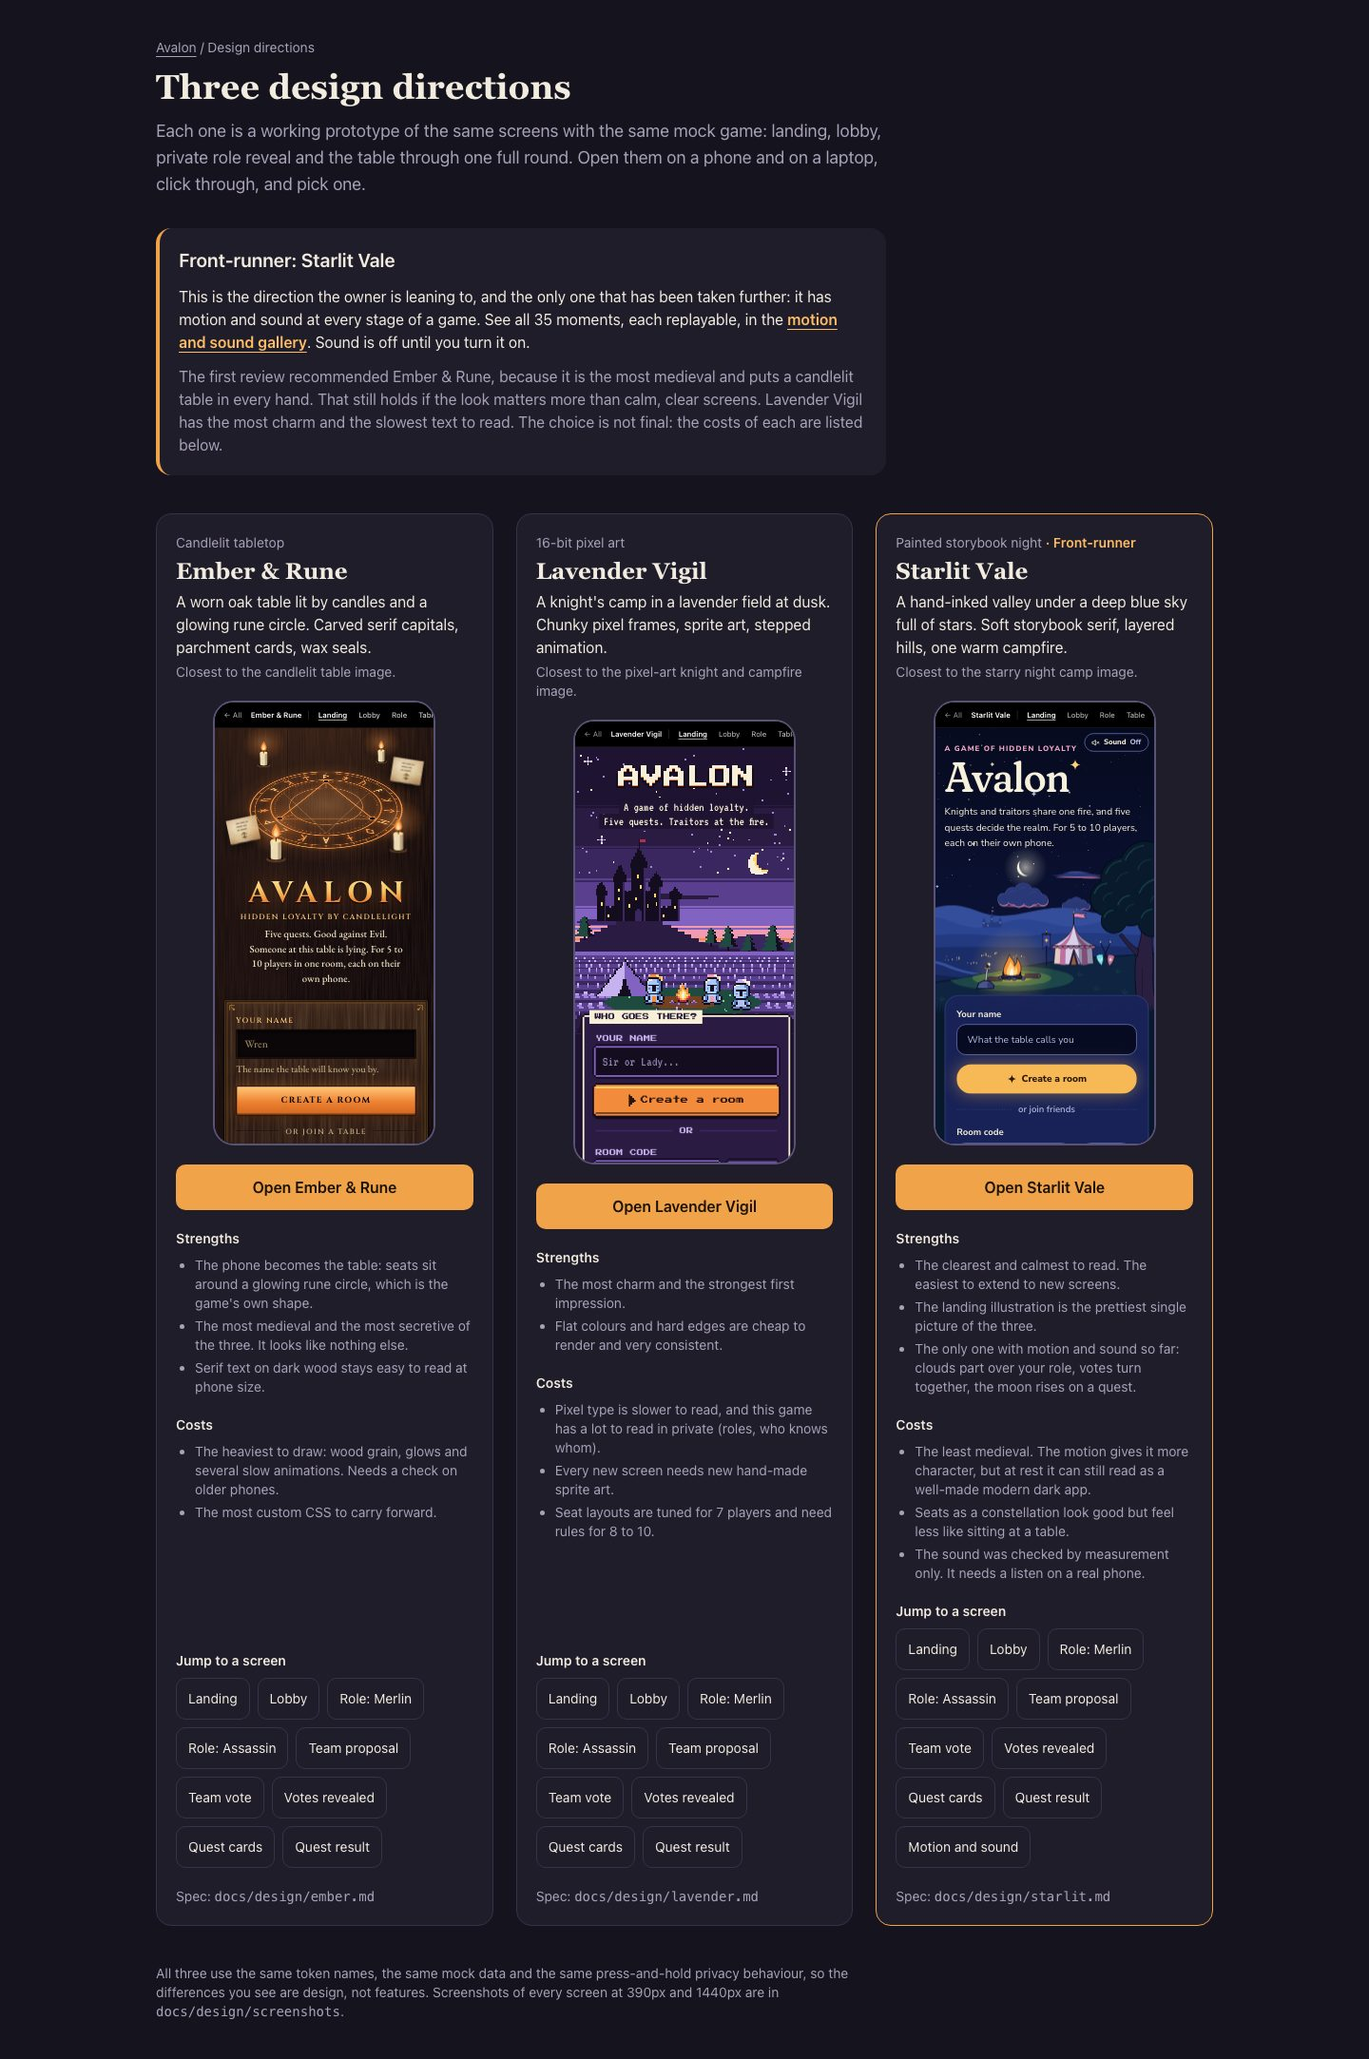
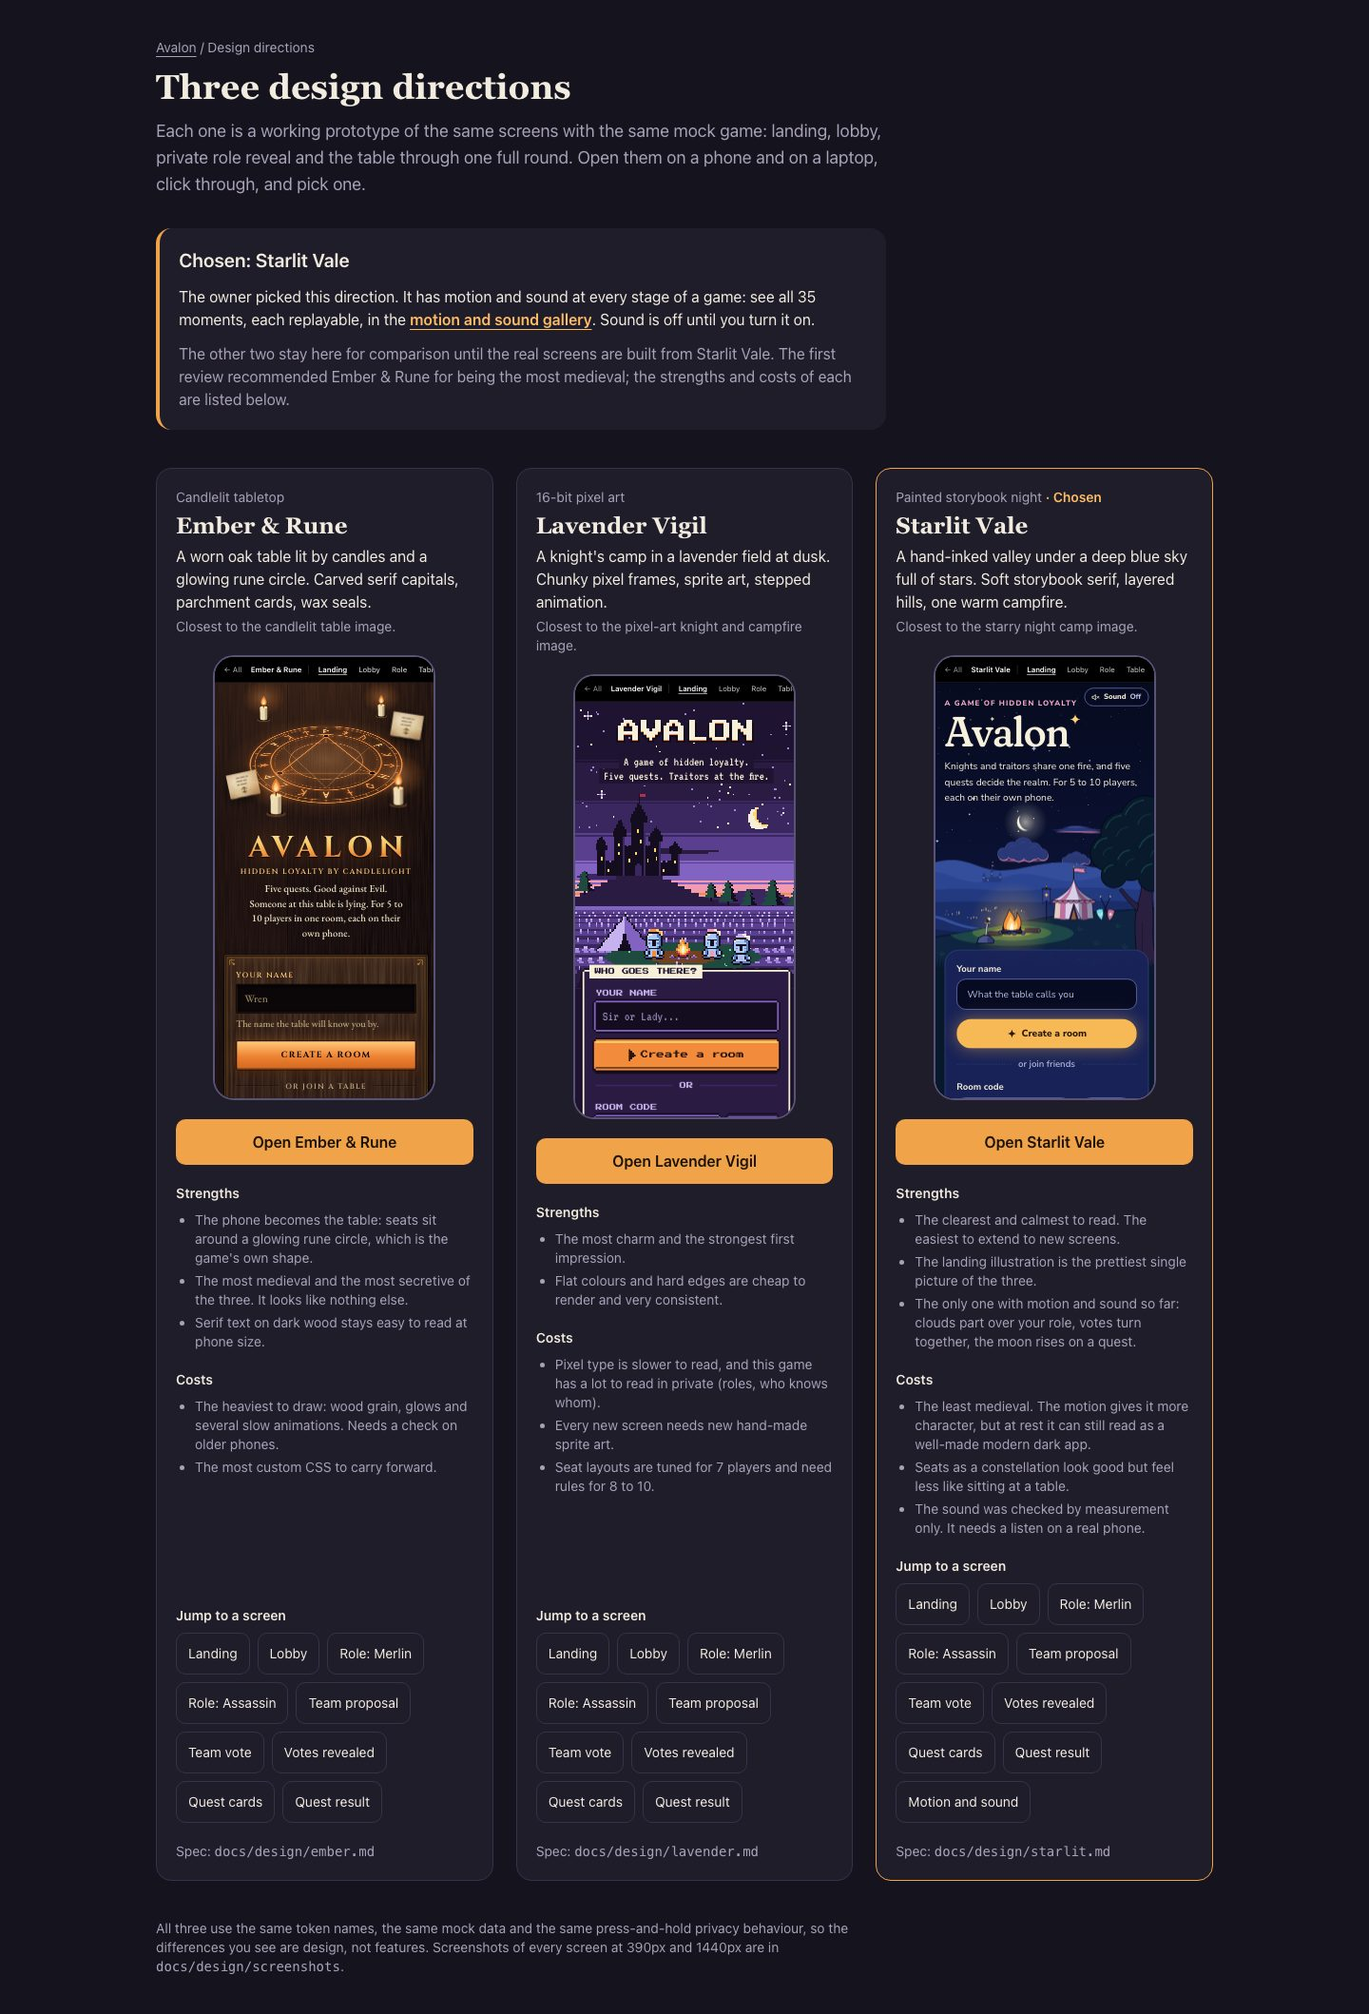
docs: record Starlit Vale as the final pick, the first deploy and measured CPU time
The owner chose Starlit Vale and approved a first deploy. The Worker is live at
avalon.hong-ladder.workers.dev. The browser tests pass against it
(E2E_BASE_URL, new in playwright.config.ts).

CPU time measured on the live Worker: plain pages and the room socket are far
inside the free plan's 10 ms, but server-rendering Starlit's art is about twice
that. The plan now says the large drawings and the room screen render in the
browser, with a measured target for Phase 0.

Claude-Session: https://claude.ai/code/session_017rvMngAqhVY353oFT8AX5Q

diff --git a/src/routes/design/index.tsx b/src/routes/design/index.tsx
@@ -14,8 +14,8 @@ export const Route = createFileRoute("/design/")({
   component: DesignIndexPage,
 });
 
-/** The direction the owner is leaning to. Not final until they say so. */
-const FRONT_RUNNER: DirectionSlug = "starlit";
+/** The direction the owner picked on 16 November 2026. */
+const CHOSEN: DirectionSlug = "starlit";
 
 /** What each direction is best and worst at, from reviewing all three. */
 const VERDICTS: Record<
@@ -111,7 +111,7 @@ function PhonePreview({ slug, name }: { slug: DirectionSlug; name: string }) {
 }
 
 function DesignIndexPage() {
-  const frontRunner = DIRECTIONS.find((d) => d.slug === FRONT_RUNNER);
+  const chosen = DIRECTIONS.find((d) => d.slug === CHOSEN);
 
   return (
     <main className="mx-auto w-full max-w-6xl flex-1 px-5 py-10">
@@ -138,12 +138,11 @@ function DesignIndexPage() {
         className="border-accent bg-surface mt-8 max-w-3xl space-y-3 rounded-lg border-l-4 p-5"
       >
         <h2 id="recommendation" className="text-xl font-semibold">
-          Front-runner: {frontRunner?.name}
+          Chosen: {chosen?.name}
         </h2>
         <p>
-          This is the direction the owner is leaning to, and the only one that
-          has been taken further: it has motion and sound at every stage of a
-          game. See all 35 moments, each replayable, in the{" "}
+          The owner picked this direction. It has motion and sound at every
+          stage of a game: see all 35 moments, each replayable, in the{" "}
           <ProtoLink
             href={STARLIT_MOTION_PATH}
             className="text-accent-strong font-semibold underline underline-offset-4"
@@ -153,18 +152,17 @@ function DesignIndexPage() {
           . Sound is off until you turn it on.
         </p>
         <p className="text-ink-muted">
-          The first review recommended Ember &amp; Rune, because it is the most
-          medieval and puts a candlelit table in every hand. That still holds if
-          the look matters more than calm, clear screens. Lavender Vigil has the
-          most charm and the slowest text to read. The choice is not final: the
-          costs of each are listed below.
+          The other two stay here for comparison until the real screens are
+          built from Starlit Vale. The first review recommended Ember &amp; Rune
+          for being the most medieval; the strengths and costs of each are
+          listed below.
         </p>
       </section>
 
       <ul className="mt-10 grid gap-6 lg:grid-cols-3">
         {DIRECTIONS.map((direction) => {
           const verdict = VERDICTS[direction.slug];
-          const isPick = direction.slug === FRONT_RUNNER;
+          const isPick = direction.slug === CHOSEN;
           return (
             <li
               key={direction.slug}
@@ -178,7 +176,7 @@ function DesignIndexPage() {
                   {isPick && (
                     <span className="text-accent-strong font-semibold">
                       {" "}
-                      · Front-runner
+                      · Chosen
                     </span>
                   )}
                 </p>

diff --git a/playwright.config.ts b/playwright.config.ts
@@ -1,7 +1,9 @@
 import { defineConfig } from "@playwright/test";
 
 const port = Number.parseInt(process.env.PORT ?? "3100", 10);
-const baseURL = `http://localhost:${port}`;
+/** Set E2E_BASE_URL to run against a deployed site instead of a local build. */
+const remoteURL = process.env.E2E_BASE_URL;
+const baseURL = remoteURL ?? `http://localhost:${port}`;
 
 /**
  * Two projects:
@@ -9,7 +11,8 @@ const baseURL = `http://localhost:${port}`;
  * - screenshots: regenerates docs/design/screenshots (run by hand).
  *
  * Both run against the production build, served by `vite preview` in
- * Cloudflare's local runtime. Run `pnpm build` first.
+ * Cloudflare's local runtime (run `pnpm build` first), or against a deployed
+ * site when E2E_BASE_URL is set.
  */
 export default defineConfig({
   testDir: "./e2e",
@@ -25,10 +28,12 @@ export default defineConfig({
       use: { reducedMotion: "reduce" },
     },
   ],
-  webServer: {
-    command: `pnpm exec vite preview --port ${port} --strictPort`,
-    url: `${baseURL}/api/health`,
-    reuseExistingServer: !process.env.CI,
-    timeout: 60_000,
-  },
+  webServer: remoteURL
+    ? undefined
+    : {
+        command: `pnpm exec vite preview --port ${port} --strictPort`,
+        url: `${baseURL}/api/health`,
+        reuseExistingServer: !process.env.CI,
+        timeout: 60_000,
+      },
 });

diff --git a/docs/architecture.md b/docs/architecture.md
@@ -165,10 +165,10 @@ What it costs:
 - **Nothing may live only in memory.** Every change is saved, each socket
   remembers its seat in its attachment, and anything that must happen later
   is an alarm. This is a discipline, kept by review and by the restart check.
-- **Free-plan CPU is 10 ms per request.** Fine for the room object. Not yet
-  measured for server-rendering the art-heavy pages. If a page exceeds it,
-  that route can be rendered in the browser instead, or the 5 USD plan
-  removes the limit.
+- **Free-plan CPU is 10 ms per request.** Fine for the room object and the
+  plain pages. Server-rendering the art-heavy Starlit screens measured about
+  twice that on the live Worker, so the game screens must render in the
+  browser. See the measurements under [Deployment](#deployment).
 
 Cloudflare Containers (generally available, paid plan only) could have run
 the Option A server unchanged, but containers sleep, lose their disk and are
@@ -696,16 +696,52 @@ newer client against an older room fails politely.
 
 ## Deployment
 
-Nothing was deployed in this checkpoint. Deploying needs the owner's approval
-and a Cloudflare account.
+First deployed on 16 November 2026, with the owner's approval, to the owner's
+Cloudflare account: <https://avalon.hong-ladder.workers.dev>. Every later
+deploy still needs the owner's go-ahead.
 
-| Step            | What                                                                                                                                      |
-| --------------- | ----------------------------------------------------------------------------------------------------------------------------------------- |
-| Account         | A Cloudflare account. The free plan is enough to start.                                                                                   |
-| Deploy          | `pnpm run deploy` (builds, then `wrangler deploy`). The first deploy creates the Worker and the `RoomObject` class from `wrangler.jsonc`. |
-| Address         | `avalon.<account>.workers.dev` by default. A custom domain is optional.                                                                   |
-| Secrets         | None. There are no environment variables.                                                                                                 |
-| After deploying | Play one game on two phones. Check the Worker's CPU time for the landing and prototype pages against the free plan's 10 ms.               |
+| Step    | What                                                                                                                                      |
+| ------- | ----------------------------------------------------------------------------------------------------------------------------------------- |
+| Account | The owner's Cloudflare account, signed in with `wrangler login`.                                                                          |
+| Deploy  | `pnpm run deploy` (builds, then `wrangler deploy`). The first deploy created the Worker and the `RoomObject` class from `wrangler.jsonc`. |
+| Address | `avalon.hong-ladder.workers.dev`. A custom domain is optional.                                                                            |
+| Secrets | None. There are no environment variables.                                                                                                 |
+| Check   | `E2E_BASE_URL=https://avalon.hong-ladder.workers.dev pnpm test:e2e` runs the browser tests against the live site.                         |
+
+### Measured CPU time on the live Worker
+
+Measured on 16 November 2026 with `wrangler tail avalon --format json` while
+requesting each address 30 times (the tail samples, so counts are a little
+under 30). The free plan allows 10 ms of CPU per request. Cloudflare's limits
+page says there is some flexibility for a Worker that runs over infrequently,
+and that one that runs over consistently is stopped with error 1102.
+
+| Request                              | Median | 90th percentile | Slowest | Over 10 ms |
+| ------------------------------------ | ------ | --------------- | ------- | ---------- |
+| `/` (plain landing)                  | 3 ms   | 6 ms            | 13 ms   | 1 of 26    |
+| `/room/<code>` (plain room screen)   | 3 ms   | 5 ms            | 6 ms    | 0 of 23    |
+| `/design/starlit` (landing with art) | 21 ms  | 37 ms           | 40 ms   | 25 of 27   |
+| `/design/starlit/table/result`       | 23 ms  | 42 ms           | 43 ms   | 25 of 25   |
+| Room socket messages and room object | 0 ms   | 2 ms            | 2 ms    | none       |
+
+Every request still returned 200, and none was reported as `exceededCpu`. That
+is the flexibility, not a guarantee.
+
+What this means: the real-time side and the plain pages are far inside the free
+plan. Server-rendering Starlit Vale's art is consistently over it. Starlit Vale
+is the chosen direction, so this is settled as follows, and Phase 0 carries it
+out:
+
+- The Worker sends a light page: the layout, the text and the form. The night
+  sky, the camp scene, the seat ring and the other large drawings are rendered
+  in the browser only (a client-only wrapper around those components, with a
+  plain background colour until they appear).
+- `/room/$code` gains nothing from server rendering, because everything on it
+  comes from the socket. It is rendered in the browser.
+- Phase 0 is not done until the 90th percentile for `/` and `/room/<code>` on
+  the live Worker is under 10 ms, measured the same way.
+- If that cannot be reached, the fallback is the Workers Paid plan (5 USD a
+  month), which needs the owner's approval.
 
 Changing the Durable Object class (renaming or deleting it) needs a new entry
 under `migrations` in `wrangler.jsonc`. Changing `RoomState` in a way old
@@ -775,8 +811,13 @@ saved; nothing is kept only in a field; anything timed is an alarm.
   and `e2e/design.shots.ts`. Keep the winner's spec as `docs/design-system.md`
   and rewrite `.claude/rules/design-system.md` from it.
 - Restyle `/` and the `/room/$code` placeholder with the real components.
+- Render the large drawings in the browser only, and `/room/$code` in the
+  browser only, as settled under
+  [Measured CPU time on the live Worker](#measured-cpu-time-on-the-live-worker).
 - Done when: `/` and `/room/$code` look like the chosen direction at 390px
-  and 1440px (screenshots), and the existing e2e tests still pass.
+  and 1440px (screenshots), the existing e2e tests still pass, and after a
+  deploy (ask the owner first) the 90th percentile CPU time for both is under
+  10 ms.
 
 ### Phase 1: the lobby
 
@@ -887,14 +928,15 @@ sees nothing secret.
 - Accessibility pass (keyboard, screen reader labels, reduced motion) and a
   performance check on a mid-range phone profile.
 
-### Phase 8: deploy (needs approval)
+### Phase 8: deploy the finished game (needs approval)
 
-- `pnpm run deploy` to a Cloudflare account, then the checks listed under
-  [Deployment](#deployment).
+- `pnpm run deploy`, then run the browser tests against the live site, measure
+  CPU time as under [Deployment](#deployment), and play one whole game on two
+  phones.
 
 ## Owner decisions
 
-Answered on 15 November 2026:
+Answered on 15 and 16 November 2026:
 
 | Question                                                                 | Answer                                            |
 | ------------------------------------------------------------------------ | ------------------------------------------------- |
@@ -903,8 +945,7 @@ Answered on 15 November 2026:
 | Room codes of 4 letters instead of 6 characters                          | Confirmed.                                        |
 | The room survives the host leaving; host role passes on after 60 seconds | Confirmed.                                        |
 | Shared table screen and Lady of the Lake                                 | Both required in the next run (Phases 5 and 6).   |
+| Design direction                                                         | Starlit Vale, with its motion and sound. Final.   |
+| First deploy to Cloudflare                                               | Approved and done. Later deploys: ask first.      |
 
-Still open:
-
-1. **Which design direction?** The owner is leaning towards Starlit Vale and
-   asked for motion and sound examples first. See `/design/starlit/motion`.
+Nothing is open. Phase 0 can start.

diff --git a/.claude/rules/design-system.md b/.claude/rules/design-system.md
@@ -9,14 +9,19 @@ paths:
 
 # Design System
 
-**Status: a design direction has not been picked yet.** Three candidate directions
-are built as prototypes under `/design`. Their specs are in `docs/design/`, and the
-contract they all follow is `docs/design/README.md`. When one is picked, its tokens
-move to `:root`, the other two are deleted, and this file is rewritten from the
-winner's spec (Phase 0 in `docs/architecture.md`). The old navy and gold, Inter and
-shadcn/ui system is gone; do not bring it back.
+**Status: Starlit Vale is the chosen direction** (picked by the owner on 16
+November 2026), with its motion and sound. Its spec is `docs/design/starlit.md` and
+its prototype is under `/design/starlit`. The real screens are not built from it
+yet: Phase 0 in `docs/architecture.md` moves its tokens to `:root`, deletes the
+other two directions and rewrites this file from the spec. Until then, new UI work
+follows the Starlit spec. The old navy and gold, Inter and shadcn/ui system is
+gone; do not bring it back.
 
-## What is already fixed, whichever direction wins
+Large drawings (night sky, camp scene, seat ring) render in the browser only, not
+on the Worker: server-rendering them costs about twice the free plan's CPU limit
+(measured, see Deployment in `docs/architecture.md`).
+
+## What is fixed
 
 ### Tokens
 

diff --git a/docs/design/README.md b/docs/design/README.md
@@ -16,14 +16,15 @@ Regenerate them with `pnpm build && pnpm screenshots`. Phone screenshots show
 the whole page, with the bar that is fixed to the bottom of the screen drawn at
 the bottom of the image.
 
-The current front-runner, with the strengths and costs of each direction, is on
-the `/design` page (`src/routes/design/index.tsx`).
+**Starlit Vale was chosen on 16 November 2026.** The comparison, with the
+strengths and costs of each direction, is on the `/design` page
+(`src/routes/design/index.tsx`). The other two are kept until Phase 0 in
+`docs/architecture.md` removes them.
 
-Starlit Vale is the direction the owner is leaning to, so it alone has been
-taken further: it has motion and sound at every stage of a game. All 35 moments
-are replayable at `/design/starlit/motion`, and the same motion and cues are
-wired into its click-through. Sound is off until the player turns it on. The
-sound engine is in `src/client/sound` and does not depend on the prototypes.
+Starlit Vale has motion and sound at every stage of a game. All 35 moments are
+replayable at `/design/starlit/motion`, and the same motion and cues are wired
+into its click-through. Sound is off until the player turns it on. The sound
+engine is in `src/client/sound` and does not depend on the prototypes.
 
 ## What every direction provides
 

diff --git a/CLAUDE.md b/CLAUDE.md
@@ -57,7 +57,7 @@ src/functions/     Server functions (createRoom)
 src/shared/        Types, constants, protocol, validators. Imported by both sides
 src/server/        Room object, room rules, view projection, game engine. Worker only
 src/client/        Browser helpers: connection, seat token, room store hook, hold-to-reveal, sound
-src/design/        Prototype-only mock data and helpers (removed after a direction is picked)
+src/design/        Prototype-only mock data and helpers (removed in Phase 0; Starlit Vale is the pick)
 e2e/               Playwright: *.e2e.ts behaviour, *.shots.ts screenshots
 scripts/           contrast.mjs, restart-check.mjs
 bruno/             Bruno collection

diff --git a/README.md b/README.md
@@ -5,7 +5,10 @@ everyone on their own phone. One TanStack Start app on a Cloudflare Worker, with
 one Durable Object per game room.
 
 Status: foundation. Rooms, joining, presence and reconnecting work. The game
-itself is next. Three design directions are available to compare at `/design`.
+itself is next. Three design directions were compared at `/design`, and Starlit
+Vale was chosen.
+
+Live: <https://avalon.hong-ladder.workers.dev>
 
 ## Run it
 
